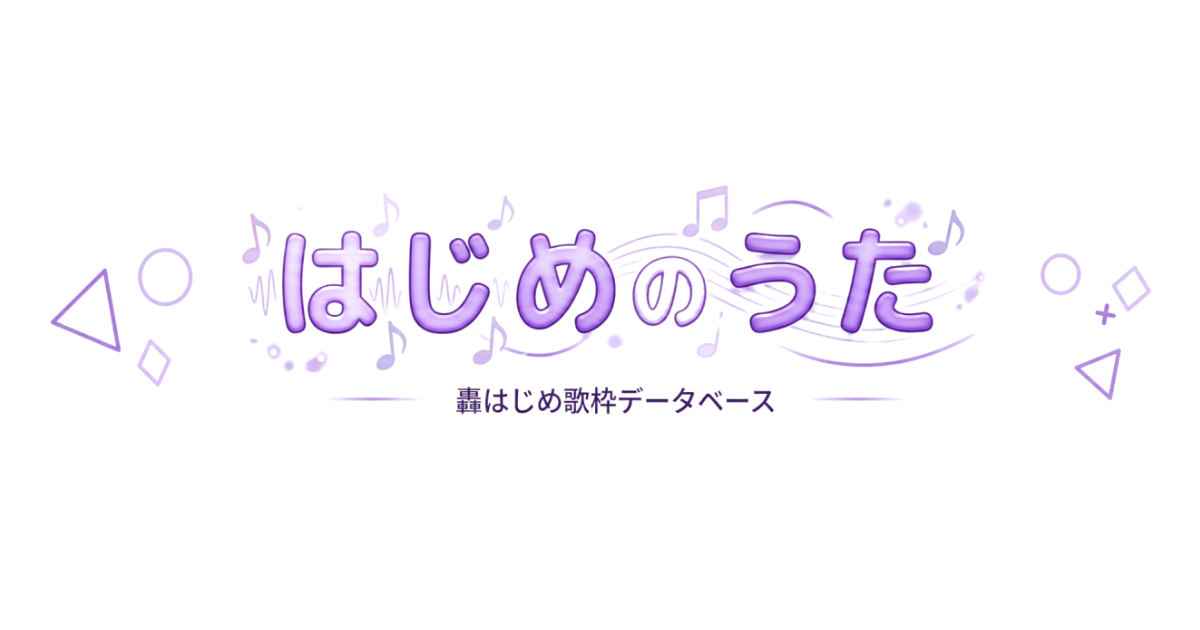
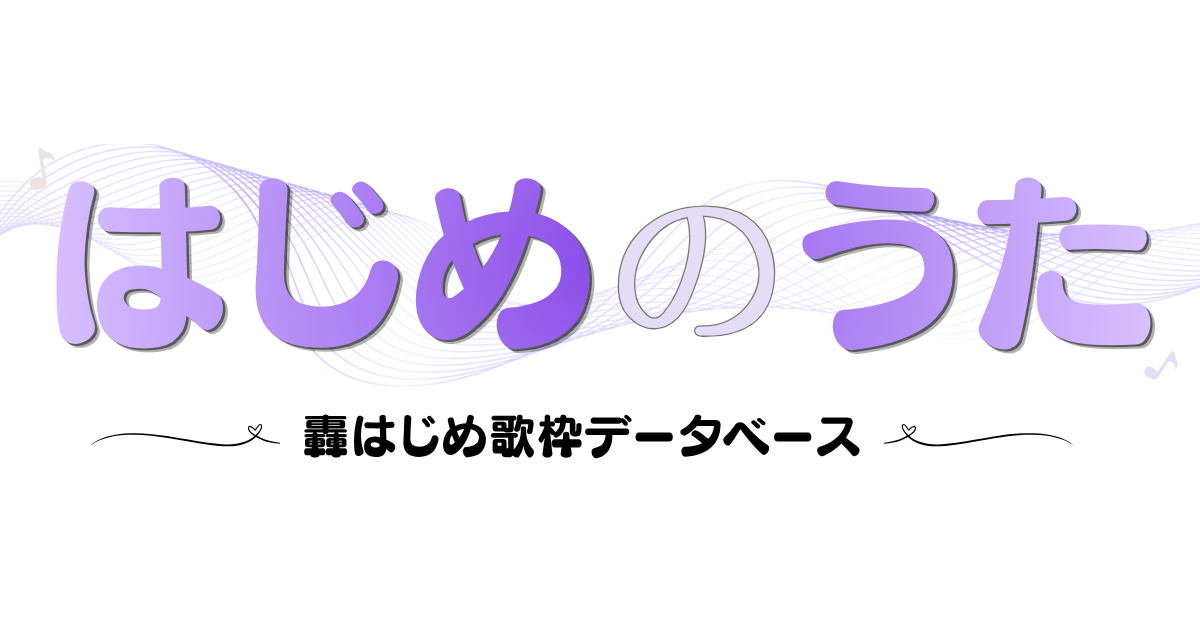
20260819_ver.1.1.1
・モーダル修正
・ロゴ変更

diff --git a/app.js b/app.js
@@ -49,14 +49,16 @@ function openModal(singId) {
 
   const modalContent = document.querySelector('.modal-content');
 
-  if (modalContent) {
-    modalContent.scrollTop = 0;
-  }
-
+  // 先にモーダルを表示
   modalOverlay.classList.remove('hidden');
   modalOverlay.setAttribute('aria-hidden', 'false');
 
   document.body.classList.add('modal-open');
+
+  // 表示後にスクロール位置を先頭へリセット
+  if (modalContent) {
+    modalContent.scrollTop = 0;
+  }
 }
 
 
